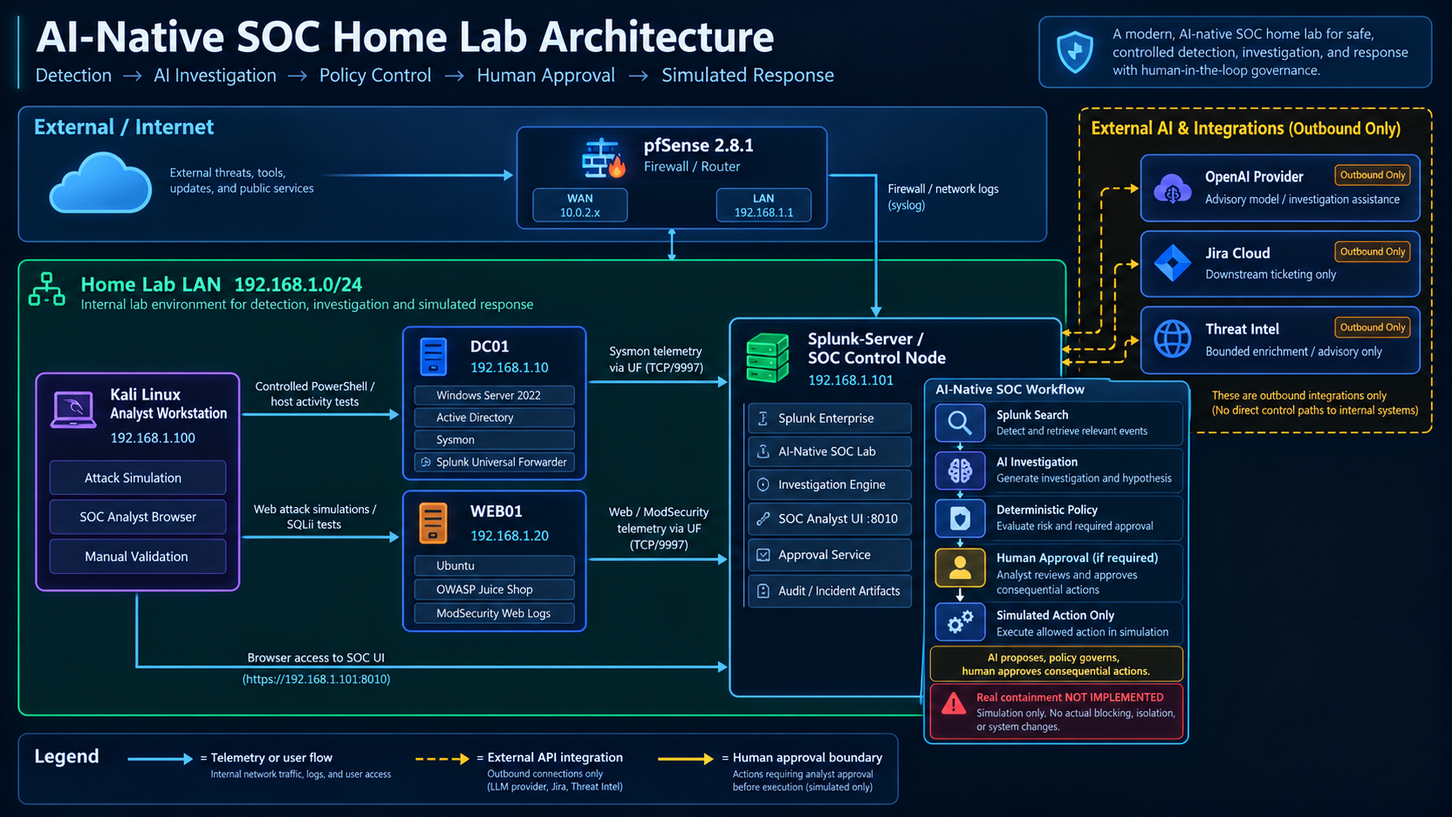
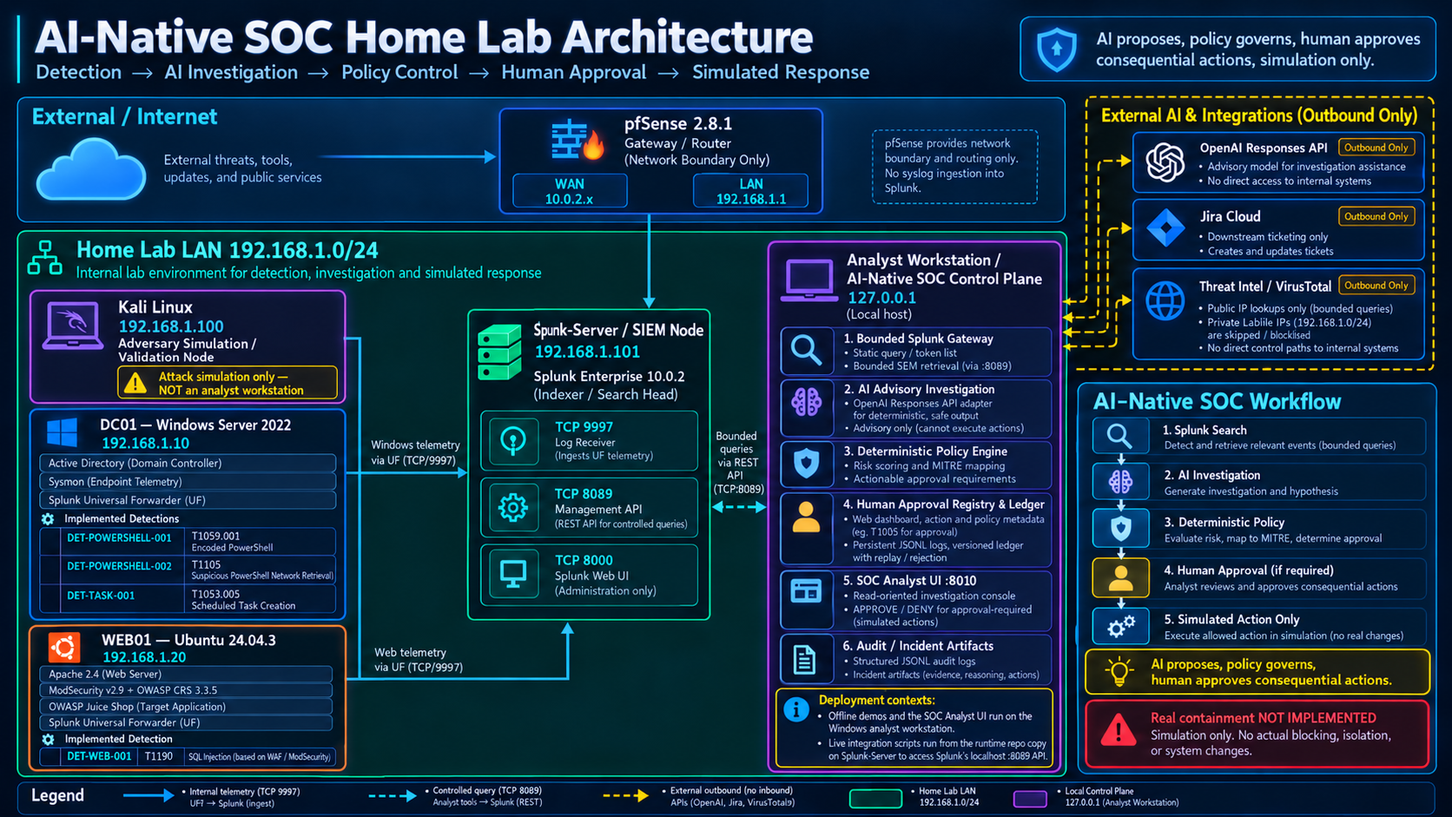
docs: fix README navigation and refresh architecture hero

diff --git a/README.md b/README.md
@@ -22,11 +22,11 @@ The AI agent functions strictly as an advisory investigator—it cannot execute 
 
 * **Quick Start & Demos**: [Getting Started & Demo Paths](#getting-started-demo-paths) • [Offline Reviewer Quick Start](#track-1-offline-portfolio-demo-reviewer-quick-start) • [Verification Summary: Local vs. Live](#verification-summary-local-vs-live-capabilities)
 * **Architecture & Principles**: [Core Runtime Security Principle](#core-runtime-security-principle) • [Multi-Layer Telemetry Architecture](#multi-layer-telemetry-architecture) • [Architecture Diagram](docs/images/architecture/ai-native-soc-lab-architecture.svg)
-* **Detection Engineering**: [Sigma Rules](detections/sigma/) • [Splunk SPL Detections](detections/splunk/) • [Sigma Validation Guide](docs/detection-engineering/sigma-validation.md) • [Telemetry & Detection Status](#6-telemetry-detection-status)
+* **Detection Engineering**: [Sigma Rules](detections/sigma/) • [Splunk SPL Detections](detections/splunk/) • [Sigma Validation Guide](docs/detection-engineering/sigma-validation.md) • [Telemetry & Detection Status](#telemetry-detection-status)
 * **Case Studies**: [Encoded PowerShell Investigation](docs/case-studies/encoded-powershell-end-to-end.md) • [Scheduled Task Persistence](docs/case-studies/scheduled-task-persistence.md) • [WEB01 ModSecurity SQL Injection](docs/case-studies/web01-modsecurity-sqli.md)
-* **Security Evaluations**: [Automated Evaluation Harness](evaluation/harness.py) • [Security Evaluation Artifacts](artifacts/evaluation/security-evaluation.md) • [Evaluation Suite Details](#7-adversarial-security-evaluations-canonical-harness)
+* **Security Evaluations**: [Automated Evaluation Harness](evaluation/harness.py) • [Security Evaluation Artifacts](artifacts/evaluation/security-evaluation.md) • [Evaluation Suite Details](#evaluation-suite-details)
 * **Analyst UI**: [FastAPI Investigation Console Source](ui/app.py) • [UI Templates](ui/templates/)
-* **Implementation & Governance**: [Formal Project Threat Model](docs/threat-model.md) • [Component Status Matrix](#component-status-matrix) • [Current Limitations & Boundaries](#8-current-limitations-boundary-disclosures) • [Implementation Notes](docs/implementation-notes.md)
+* **Implementation & Governance**: [Formal Project Threat Model](docs/threat-model.md) • [Component Status Matrix](#component-status-matrix) • [Current Limitations & Boundaries](#current-limitations-boundaries) • [Implementation Notes](docs/implementation-notes.md)
 
 ---
 
@@ -74,8 +74,13 @@ The AI agent functions strictly as an advisory investigator—it cannot execute 
 
 Modern Security Operations Centers face high alert volumes and context fragmentation. This project demonstrates how an AI agent can assist human analysts during alert triage, telemetry analysis, and IOC enrichment while remaining bound by strict deterministic security policies.
 
-[![AI-Native SOC Lab Architecture](docs/images/architecture/ai-native-soc-lab-architecture.png)](docs/images/architecture/ai-native-soc-lab-architecture.svg)
-*Current Milestone 19 architecture — isolated VirtualBox lab, bounded SIEM retrieval, advisory AI, deterministic policy, human approval for consequential simulated actions, and no real endpoint containment.*
+![AI-Native SOC Home Lab Architecture](docs/images/architecture/ai-native-soc-home-lab-architecture.png)
+*AI-Native SOC home-lab architecture: isolated endpoint and web telemetry feed Splunk and a bounded investigation control plane where AI remains advisory, deterministic policy retains authority, consequential simulated actions require human approval, and real endpoint containment is not implemented.*
+
+**Detailed technical architecture:**<br>
+[Open SVG](docs/images/architecture/ai-native-soc-lab-architecture.svg) · [View PNG](docs/images/architecture/ai-native-soc-lab-architecture.png) · [Mermaid source](docs/images/architecture/ai-native-soc-lab-architecture.mmd)
+
+*The detailed diagram documents trust boundaries, bounded SIEM retrieval, advisory AI, deterministic policy authority, conditional human approval, external integrations, audit logging, and the simulated-response boundary.*
 
 ### Core Runtime Security Principle
 
@@ -114,11 +119,12 @@ The lab demonstrates defense-in-depth across multiple enterprise telemetry layer
 * **Web Application Telemetry**: Linux (`WEB01` Ubuntu 24.04.3) / Apache 2.4 reverse proxy / OWASP ModSecurity Core Rule Set (OWASP CRS 3.3.5) / OWASP Juice Shop running as a Node.js application on port 3000.
 * **SIEM & Ingestion**: Splunk Enterprise indexer / Splunk Universal Forwarder / Bounded retrieval interfaces (static SPL; caller cannot execute arbitrary SPL).
 * **Threat Intelligence**: Bounded VirusTotal REST API v3 IP adapter (live tested; public IPv4 eligible only; private/non-global IPs gated; controlled public-source enrichment live tested in Milestone 13F-3).
-* **Agent Security & Policy**: Deterministic policy engine, least-privilege tool allowlisting, prompt-injection isolation, runtime kill switch, human approval gates for consequential actions, immutable incident records.
+* **Agent Security & Policy**: Deterministic policy engine, least-privilege tool allowlisting, prompt-injection isolation, runtime kill switch, human approval gates for consequential actions, structured validated incident records.
 * **Ticketing & SOAR**: Bounded Jira Cloud adapter (downstream reporting only, zero response authority; live tested for DC01 via `KAN-7`, live tested for WEB01 via `KAN-8`, and live verified with hardened ADF formatting via `KAN-9`).
 
 ---
 
+<a id="getting-started-demo-paths"></a>
 ## Getting Started & Demo Paths
 
 This repository strictly separates the **software control plane** (reproducible anywhere) from the **live physical/virtual home lab** (requires dedicated virtualization infrastructure). A reviewer can clone this repository, run the entire test suite, execute deterministic evaluation harnesses, run synthetic incident pipelines, and launch the SOC Analyst UI locally without needing access to the author's home lab or external paid API accounts.
@@ -242,7 +248,7 @@ The offline portfolio track demonstrates the complete deterministic agentic secu
    * **Port Convention**: Uses port `8010` (`DEFAULT_UI_PORT = 8010` in `ui/app.py`). Port 8010 avoids collision with Splunk Web (which occupies port 8000 in the home lab) and matches the server's default origin allowlist (`http://127.0.0.1:8010` and `http://localhost:8010`).
    * **Access**: Open `http://127.0.0.1:8010` in any web browser.
    * **Artifact Behavior**: Reads directly from `artifacts/incidents/` and `artifacts/audit/agent_audit.jsonl`. If launched before generating synthetic artifacts in Step 7, the UI starts cleanly (HTTP 200) but displays an empty state. Generating artifacts in Step 7 populates rich incident detail views, inert Sysmon XML telemetry, ModSecurity 7-field cards, visual AI advisory vs deterministic policy separation, and audit timelines.
-   * **Credentials & Safety**: None required; read-only presentation layer; zero external outbound network requests.
+   * **Credentials & Safety**: None required; read-oriented investigation and triage presentation layer with interactive APPROVE / DENY controls for approval-required simulated actions; zero direct privileged-tool authority; zero real endpoint containment; no production auth/RBAC/SSO; zero external outbound network requests.
 
 ---
 
@@ -320,7 +326,7 @@ All live demo modes must be executed on the **Splunk-Server** VM where `https://
 #### What a Reviewer Can Verify Locally `[OFFLINE]`
 * **Tool Allowlisting & Schema Enforcement**: Strict parameter typing, argument validation, and static SPL query restriction (`ToolRouter`).
 * **Deterministic Policy Engine**: Exact risk scoring formulas, additive indicator weights, threshold rules, and disposition assignment (`RiskPolicyEngine`).
-* **Human Approval & Replay Protection**: 600s TTL expiry, exact action hash matching, single-use token consumption, and append-only ledger (`approval_consumption.jsonl`) with flush+fsync replay prevention.
+* **Human Approval & Replay Protection**: Exact incident/action/policy binding, 600s TTL expiry, persistent JSONL consumption ledger (`artifacts/approvals/approval_consumption.jsonl`), single-use token consumption, and replay rejection.
 * **Simulation Safety Boundary**: Proof that containment is strictly recorded as `SIMULATED` vs `NOT_EXECUTED`; zero real subprocess or network mutation code exists.
 * **Audit Logging & Governance**: Append-only sequential JSONL writing, strict field validation, and deterministic timeline reconstruction.
 * **Adversarial & Injection Defenses**: 21 canonical security evaluation scenarios, CAT-1 through CAT-8 injection datasets, ADF codeBlock containment, and canary secrecy tests.
@@ -340,7 +346,7 @@ All live demo modes must be executed on the **Splunk-Server** VM where `https://
 | :--- | :--- | :--- |
 | **Tool Allowlisting & Permissions** | Complete schema enforcement, unallowlisted tool rejection, argument validation, and static SPL query restriction (`ToolRouter`). | Ingestion of telemetry from physical forwarders into Splunk Enterprise. |
 | **Deterministic Policy Engine** | Exact risk scoring mathematical formulas, additive weight calculation, threshold rules, and disposition assignment (`RiskPolicyEngine`). | Live environmental baseline tuning against ambient network traffic. |
-| **Human Approval & Ledger** | 600s TTL expiry, exact action SHA-256 hash matching, single-use token consumption, and append-only ledger fsync replay protection. | Real operator interactive workflow during an active live attack campaign. |
+| **Human Approval & Ledger** | Exact incident/action/policy binding, 600s TTL, persistent JSONL consumption ledger, single-use token consumption, and replay rejection. | Real operator interactive workflow during an active live attack campaign. |
 | **Simulation Safety Boundary** | Proof that containment is strictly recorded as `SIMULATED` vs `NOT_EXECUTED`; zero real subprocess or network mutation code exists. | Confirmed absence of network disruption across physical lab switches/hosts. |
 | **Audit Logging & Governance** | Append-only sequential JSONL writing, strict field validation, and deterministic timeline reconstruction. | Distributed multi-host audit aggregation. |
 | **Adversarial & Injection Defenses** | 21 canonical security evaluation scenarios, CAT-1 through CAT-8 injection datasets, ADF codeBlock containment, and canary secrecy tests. | Empirical adversarial red-teaming against live, unconstrained third-party LLMs. |
@@ -491,10 +497,12 @@ To maintain strict truthfulness across technical interviews and documentation, s
 | **Tool-Authorization Abuse Guardrails (14A)** | Adversarial Testing / Security Controls | **IMPLEMENTED + TESTED OFFLINE** | 23 adversarial tests (commit `d913f84`); unallowlisted tools, arbitrary SPL, forbidden arguments, provider overrides fail closed before execution; RuntimeGuard & kill-switch denial verified. |
 | **Untrusted Content & Prompt-Injection Boundary (14B)** | Adversarial Testing / Security Controls | **IMPLEMENTED + TESTED OFFLINE** | 15 adversarial tests (commit `807ad85`); telemetry, ModSecurity evidence, and TI data remain inert evidence; cannot alter tool permissions, forge approval, or leak canary secrets; ADF codeBlock containment verified. |
 | **RuntimeGuard & Execution-Budget Enforcement (14C)** | Adversarial Testing / Security Controls | **IMPLEMENTED + TESTED OFFLINE** | 14 adversarial tests (commit `5b3b0f4`); cumulative tool budget exhaustion, irreversible kill-switch latching, halt-state persistence, separate-run isolation, downstream execution blocking across TI, simulation, and ticketing verified. |
-| **SOC Analyst UI (Milestone 15)** | Presentation / Observability | **IMPLEMENTED + TESTED OFFLINE / MANUALLY BROWSER VALIDATED** | Read-only FastAPI console (`ui/app.py`); strict regex incident ID validation; bounded telemetry display; AI advisory vs deterministic policy separation; read-only sequential JSONL audit reader with timeline output bounded to 200 events; verified across 5 test suites; zero tool/containment authority. |
+| **SOC Analyst UI (Milestones 15 & 16)** | Presentation / Observability | **IMPLEMENTED + TESTED OFFLINE / MANUALLY BROWSER VALIDATED** | Read-oriented FastAPI investigation/triage console (`ui/app.py`); incident list and detail views; bounded telemetry display; AI advisory vs deterministic policy visualization; sequential JSONL audit reader with timeline output bounded to 200 events; interactive APPROVE / DENY controls for approval-required simulated actions; zero direct privileged-tool authority; zero real endpoint containment; no production auth/RBAC/SSO. |
 | **Post-M15 Controlled Live Validation** | End-to-End Live Validation | **LIVE LAB VALIDATED** | Controlled live exercise (2026-10-08); canonical incident `INC-LIVE-DC01-20261008T191323685TUTC`; real DC01 Sysmon $\rightarrow$ Splunk UF $\rightarrow$ Splunk Enterprise $\rightarrow$ bounded `DET-POWERSHELL-002` $\rightarrow$ live OpenAI `gpt-5.6-sol` $\rightarrow$ deterministic policy $\rightarrow$ persistence $\rightarrow$ Kali browser UI; zero real containment. |
-| **Human Approval Gate & Ledger (Milestone 16)** | Security Controls / HITL | **IMPLEMENTED + TESTED OFFLINE / MANUALLY BROWSER VALIDATED** | Deterministic approval binding, 600s TTL, persistent append-only consumption ledger (`artifacts/approvals/approval_consumption.jsonl` with flush+fsync), single-use token consumption, browser UI approve/deny routes; zero real containment. |
-| **Scheduled Task Telemetry & Investigation (DET-TASK-001 / Milestone 18)** | End-to-End Live Validation | **LIVE LAB VALIDATED** | Controlled harmless task `SOCLab-Task-Validation-3` on DC01 $\rightarrow$ Sysmon Event ID 1 $\rightarrow$ Splunk $\rightarrow$ live OpenAI advisory investigation `gpt-5.6-sol` $\rightarrow$ deterministic policy 65 HIGH / HUMAN_REVIEW $\rightarrow$ live Jira ticket `KAN-12`; zero real containment. |
+| **Human Approval Gate & Ledger (Milestone 16)** | Security Controls / HITL | **IMPLEMENTED + TESTED OFFLINE / MANUALLY BROWSER VALIDATED** | Exact incident/action/policy binding, 600s TTL, persistent JSONL consumption ledger (`artifacts/approvals/approval_consumption.jsonl` with flush+fsync write semantics), single-use token consumption, browser UI approve/deny routes; zero real containment. |
+| **Scheduled Task Telemetry & Investigation (DET-TASK-001 / Milestone 18)** | End-to-End Live Validation | **LIVE LAB VALIDATED** | Controlled harmless task `SOCLab-Task-Validation-3` on DC01 $\rightarrow$ Sysmon Event ID 1 $\rightarrow$ real Splunk retrieval $\rightarrow$ deterministic policy 65 HIGH / HUMAN_REVIEW; validated across two distinct live pipelines: M18B-5 (real Splunk + live OpenAI `gpt-5.6-sol`, no Jira) and M18B-6 (real Splunk + deterministic FakeModel + real Jira Cloud ticket `KAN-12`, no live OpenAI); zero real containment. |
+| **Formal Threat Model (Milestone 21)** | Security Architecture & Governance | **IMPLEMENTED / PUBLISHED** | Comprehensive threat model in `docs/threat-model.md` documenting trust boundaries, untrusted inputs, advisory AI vs deterministic policy authority, external-provider boundaries, approval gate, and residual risks. |
+| **Portfolio Hardening & Visual Integration (Milestones 19 & 23 Core)** | Documentation & Architecture | **SUBSTANTIALLY DELIVERED** | Refreshed canonical Mermaid/SVG/PNG architecture, dual-track Quick Start, 3 formal incident case studies, evidence screenshots (`docs/images/evidence/`), and 21/21 security evaluation artifacts. |
 | **Suricata Network IDS Telemetry** | Network Detection | **DEFERRED** | Suricata remains deferred after earlier pfSense package-manager/integration problems. It is not currently installed/operational in the lab and is not required for the current WEB01 ModSecurity path. |
 | **Real Endpoint Containment** | Containment Safety | **NOT IMPLEMENTED / NOT EXECUTED** | Destructive containment actions explicitly excluded from V1 scope; not executed in any milestone; response actions remain strictly simulated. |
 
@@ -557,7 +565,7 @@ detection / incident input
    ```
    * Queries live Splunk for DC01 Sysmon Event ID 1 telemetry matching `DET-TASK-001` (`T1053.005`).
    * Advisory model analysis evaluates scheduled-task creation; deterministic policy scores `65 / 100`, `HIGH`, `HUMAN_REVIEW`.
-   * Live verified with OpenAI `gpt-5.6-sol` and Jira Cloud ticket `KAN-12`. Zero real containment.
+   * Live verified across two separate pipelines: live Splunk + live OpenAI `gpt-5.6-sol` (M18B-5; no Jira) and live Splunk + deterministic FakeModel + real Jira Cloud ticket `KAN-12` (M18B-6; no live OpenAI). Zero real containment.
 
 5. **Deterministic Synthetic Scheduled Task Mode** (Run anywhere / offline):
    ```bash
@@ -592,6 +600,7 @@ The physical/virtual infrastructure exists outside this repository in an isolate
 
 ---
 
+<a id="telemetry-detection-status"></a>
 ## 6. Telemetry & Detection Status
 
 The lab implements and validates 4 core detections across Windows endpoint and Linux web application telemetry. Standalone Sigma (`.yml`) and Splunk (`.spl`) rule files exist for the three endpoint detections (`DET-POWERSHELL-001`, `DET-POWERSHELL-002`, `DET-TASK-001`); `DET-WEB-001` is implemented operationally via web-tier ModSecurity CRS rules and programmatic Python gateway search logic. All detections are mapped to MITRE ATT&CK and live-tested in the isolated lab environment against controlled, harmless fixtures (no malicious compromise is claimed):
@@ -633,7 +642,7 @@ The lab implements and validates 4 core detections across Windows endpoint and L
 * **Behavior**: Process creation of `schtasks.exe` with `/create` command-line flag representing endpoint persistence mechanisms.
 * **MITRE ATT&CK Mapping**: [T1053.005 - Scheduled Task/Job: Scheduled Task](https://attack.mitre.org/techniques/T1053/005/) (Persistence `TA0003`, Privilege Escalation `TA0004`, Execution `TA0002`).
 * **Telemetry Source**: Windows Server 2022 (`DC01`) / Microsoft Sysmon Process Create (Event ID 1) / Splunk index `main`, sourcetype `XmlWinEventLog:Microsoft-Windows-Sysmon/Operational`.
-* **Validation Status**: **IMPLEMENTED + LIVE LAB VALIDATED** (Controlled harmless task `SOCLab-Task-Validation-3` launching `notepad.exe`; bounded Splunk retrieval; live OpenAI advisory investigation `gpt-5.6-sol`; deterministic policy score 65 HIGH / HUMAN_REVIEW; live Jira Cloud ticket `KAN-12`; manual task deletion after validation).
+* **Validation Status**: **IMPLEMENTED + LIVE LAB VALIDATED** (Controlled harmless task `SOCLab-Task-Validation-3` launching `notepad.exe`; bounded Splunk retrieval; deterministic policy score 65 HIGH / HUMAN_REVIEW; validated across two separate live pipelines: M18B-5 with live OpenAI `gpt-5.6-sol` [no Jira] and M18B-6 with real Jira Cloud ticket `KAN-12` using deterministic FakeModel [no live OpenAI]; manual task deletion after validation).
 * **Detection Rules**:
   * SPL: [`detections/splunk/suspicious_scheduled_task_creation.spl`](detections/splunk/suspicious_scheduled_task_creation.spl)
   * Sigma: [`detections/sigma/suspicious_scheduled_task_creation.yml`](detections/sigma/suspicious_scheduled_task_creation.yml)
@@ -641,6 +650,7 @@ The lab implements and validates 4 core detections across Windows endpoint and L
 
 ---
 
+<a id="evaluation-suite-details"></a>
 ## 7. Adversarial Security Evaluations & Canonical Harness
 
 To ensure defense-in-depth and prevent model regressions, all deterministic security controls are evaluated against an automated canonical evaluation harness (`evaluation/harness.py`). The harness runs **21 canonical scenarios** (7 baseline + 10 WEB01 + 4 Milestone 17B governance/policy-integrity scenarios) offline with zero live network dependencies.
@@ -679,6 +689,7 @@ To ensure defense-in-depth and prevent model regressions, all deterministic secu
 
 ---
 
+<a id="current-limitations-boundaries"></a>
 ## 8. Current Limitations & Boundary Disclosures
 
 * **Private Attacker IP in LabNet**: The controlled WEB01 attacker in the lab environment originates from private LabNet address `192.168.1.100`. Real lab incidents are intentionally not sent to external threat intelligence (`SKIPPED_INELIGIBLE`), preventing private network data leakage. In Milestone 13F-3, the public-source enrichment control path was validated live against VirusTotal using a sanitized synthetic fixture (`8.8.8.8`); this fixture was used purely for testing the deterministic pipeline and does not represent actual attacker traffic.
@@ -703,7 +714,7 @@ To ensure defense-in-depth and prevent model regressions, all deterministic secu
 
 * **Milestone 15 — SOC Analyst UI / Investigation Console**: **COMPLETE (IMPLEMENTED + TESTED OFFLINE / MANUALLY BROWSER VALIDATED)**
   Create an analyst-facing interface over the existing deterministic backend.
-  *Initial UI scope remains strictly read-only and observational; zero response action authority; containment is NOT IMPLEMENTED.*
+  *Initial Milestone 15 UI scope began as read-only and observational (with interactive approval controls added subsequently in Milestone 16); zero direct privileged-tool authority; containment is NOT IMPLEMENTED.*
   * **Post-M15 Controlled Live Validation**: **LIVE LAB VALIDATED** (see Section 12 in `docs/implementation-notes.md`).
     - Scope: real DC01 process telemetry, real Sysmon ingestion, real Splunk retrieval, live OpenAI investigation, deterministic policy evaluation, incident/audit persistence, UI rendering.
     - Explicit exclusions: real containment, live endpoint isolation, Jira write, VirusTotal enrichment, live human-approval execution path.
@@ -720,7 +731,7 @@ To ensure defense-in-depth and prevent model regressions, all deterministic secu
   ```
   Browser UI
       ↓
-  Bounded read-only API / presentation layer
+  Read-oriented API / presentation layer (with bounded approval controls)
       ↓
   Existing incident / audit data and application services
       ↓
@@ -731,28 +742,28 @@ To ensure defense-in-depth and prevent model regressions, all deterministic secu
   The backend security boundaries (schemas, ToolRouter, RuntimeGuard, policy engine, audit logging) are now mature, validated, and hardened against prompt injection and tool abuse. Exposing these boundaries early through a read-only console significantly improves demonstration capability (recruiter/interviewer demos), triage visibility, and debugging, establishing an intuitive inspection baseline before integrating interactive approval controls (Milestone 16), additional detections (Milestone 18), Suricata (Milestone 19), and runtime metrics (Milestone 20). Approval and response action controls remain strictly deferred until Milestone 16.
 
 * **Milestone 16 — Human Approval & Consequential Action Boundary**: **COMPLETE (IMPLEMENTED + TESTED OFFLINE / MANUALLY BROWSER VALIDATED)**
-  Harden approval binding, freshness (600s TTL), single-use consumption, persistent append-only consumption ledger (`artifacts/approvals/approval_consumption.jsonl` with flush+fsync), and auditability. Consequential response remains simulated or explicitly human-approved. Integrated controlled Analyst UI Approve/Deny routes (`POST /api/incidents/{incident_id}/approval/approve|deny`) with server-side validation and lab-local origin/CSRF protection. Manually browser validated from Kali (`INC-DEMO-UI-001`, `INC-DEMO-UI-002`, `INC-DEMO-CRIT-20261013-001`). Real endpoint containment remains **NOT IMPLEMENTED** (simulated only).
+  Harden exact incident/action/policy binding, freshness (600s TTL), single-use consumption, persistent JSONL consumption ledger (`artifacts/approvals/approval_consumption.jsonl` with flush+fsync write semantics), replay rejection, and auditability. Consequential response remains simulated or explicitly human-approved. Integrated controlled Analyst UI Approve/Deny routes (`POST /api/incidents/{incident_id}/approval/approve|deny`) with server-side validation and lab-local origin/CSRF protection. Manually browser validated from Kali (`INC-DEMO-UI-001`, `INC-DEMO-UI-002`, `INC-DEMO-CRIT-20261013-001`). Real endpoint containment remains **NOT IMPLEMENTED** (simulated only).
 
 * **Milestone 17 — Security Evaluation Framework Expansion**: **COMPLETE (IMPLEMENTED + TESTED OFFLINE)**
   Expanded the automated canonical security evaluation harness from 17 to 21 deterministic scenarios (**21/21 PASS, 100.0% pass rate**). Added 4 governance and policy-integrity scenarios actively challenging violation counters: model downgrade rejection (`POLICY_OVERRIDE_PREVENTED`), hallucinated MITRE rejection (`DETERMINISTIC_MITRE_PRESERVED`), approval replay rejection (`APPROVAL_REPLAY_BLOCKED`), and fail-closed incomplete evidence handling (`INCOMPLETE_EVIDENCE_FAILED_CLOSED`).
 
 * **Milestone 18 — Additional Detection Coverage**: **COMPLETE (IMPLEMENTED + LIVE LAB VALIDATED)**
-  Expanded endpoint detection coverage with `DET-TASK-001` (Suspicious Scheduled Task Creation — `T1053.005`). Delivered complete Sigma rule, SPL detection, bounded query helper, and deterministic policy integration (+25 base, +10 MITRE). Live lab validated end-to-end on DC01 Sysmon Event ID 1 telemetry: bounded Splunk search, live OpenAI advisory investigation (`gpt-5.6-sol`), deterministic risk evaluation (65/100 HIGH), in-memory audit accounting, and live Jira Cloud ticket creation (`KAN-12`). Additional detections beyond the four implemented detections are optional/deferred for now.
+  Expanded endpoint detection coverage with `DET-TASK-001` (Suspicious Scheduled Task Creation — `T1053.005`). Delivered complete Sigma rule, SPL detection, bounded query helper, and deterministic policy integration (+25 base, +10 MITRE). Live lab validated end-to-end on DC01 Sysmon Event ID 1 telemetry across two distinct verified pipelines: M18B-5 exercising bounded Splunk search + live OpenAI advisory investigation (`gpt-5.6-sol`, no Jira), and M18B-6 exercising bounded Splunk search + deterministic FakeModel + real Jira Cloud ticket creation (`KAN-12`, no live OpenAI). Additional detections beyond the four implemented detections are optional/deferred for now.
 
-* **Milestone 19 — Portfolio Hardening & Demonstration Readiness**: **IN PROGRESS**
-  Perform portfolio-readiness audits, documentation synchronization, repeatable demo hardening, and interview readiness. Verify that all claims, architecture disclosures, and evaluation evidence are transparent and reproducible. Broader Suricata/pfSense network IDS telemetry remains **DEFERRED**. Single-agent architecture remains intentional; multi-agent architecture is **NOT PLANNED**. Real endpoint containment remains outside V1 scope (**NOT IMPLEMENTED / SIMULATED ONLY**).
+* **Milestone 19 — Portfolio Hardening & Demonstration Readiness**: **SUBSTANTIALLY COMPLETE / ACTIVE**
+  Portfolio-readiness audits, documentation synchronization, repeatable demo hardening, and interview readiness are substantially complete through README synchronization, dual-track Quick Start, GitHub landing polish, formal threat model integration, end-to-end incident case studies, evidence screenshots, refreshed reproducible architecture diagrams, and portfolio visual integration. Broader Suricata/pfSense network IDS telemetry remains **DEFERRED**. Single-agent architecture remains intentional; multi-agent architecture is **NOT PLANNED**. Real endpoint containment remains outside V1 scope (**NOT IMPLEMENTED / SIMULATED ONLY**).
 
 * **Milestone 20 — Runtime Monitoring & Operational Safety**: **PLANNED**
   Expose per-run tool counts, blocked-tool counts, provider failures, kill-switch state, approval state, audit correlation, and bounded runtime-health/security metrics.
 
-* **Milestone 21 — Threat Model & Security Architecture Documentation**: **PLANNED**
-  Formalize trust boundaries, untrusted inputs, model authority, deterministic control plane, secrets handling, external-provider boundaries, approval boundary, abuse cases, residual risks, and production limitations.
+* **Milestone 21 — Threat Model & Security Architecture Documentation**: **SUBSTANTIALLY IMPLEMENTED / COMPLETED CORE ARTIFACTS**
+  Formal threat model and security architecture documentation completed and published in [`docs/threat-model.md`](docs/threat-model.md), documenting trust boundaries, untrusted inputs, advisory model authority, deterministic control plane, secrets handling, external-provider boundaries, human approval gate, abuse cases, residual risks, and production limitations. Enterprise compliance mappings remain future work.
 
 * **Milestone 22 — Recruiter / Interview Demo**: **PLANNED**
   Create one polished end-to-end SOC incident demonstration and one adversarial-control demonstration proving that malicious/untrusted content cannot bypass ToolRouter, RuntimeGuard, deterministic policy, or human approval.
 
-* **Milestone 23 — Portfolio & GitHub Finalization**: **PLANNED**
-  Finalize architecture diagrams, README/setup, implementation-status matrix, incident case studies, screenshots, evaluation results, live-tested vs simulated matrix, limitations, future improvements, and public roadmap.
+* **Milestone 23 — Portfolio & GitHub Finalization**: **IN PROGRESS / CORE ASSETS DELIVERED**
+  Core portfolio assets are delivered and verified in the repository: refreshed architecture diagrams ([SVG](docs/images/architecture/ai-native-soc-lab-architecture.svg) / [PNG](docs/images/architecture/ai-native-soc-lab-architecture.png) / [MMD](docs/images/architecture/ai-native-soc-lab-architecture.mmd)), comprehensive README, component status matrix, incident case studies, evidence screenshots (`docs/images/evidence/`), evaluation results (21/21 PASS), limitations, and boundary disclosures. Final public portfolio showcase packaging and recorded demonstration walkthroughs remain planned.
 
 ---
 
@@ -821,3 +832,7 @@ To ensure defense-in-depth and prevent model regressions, all deterministic secu
   - [x] **18B-4**: Live integrated investigation validation: `--mode live-scheduled-task`, bounded Splunk search, deterministic `FakeModel`, audit accounting, zero containment mutation.
   - [x] **18B-5**: Live OpenAI advisory validation for `DET-TASK-001` using model `gpt-5.6-sol` against live DC01 telemetry in Splunk.
   - [x] **18B-6**: Live Jira Cloud incident creation for `DET-TASK-001`, creating real ticket `KAN-12` (downstream reporting sink, zero response authority; preceded by connectivity smoke test `KAN-11`).
+- [x] **Milestone 19**: Portfolio Hardening & Demonstration Readiness (**SUBSTANTIALLY DELIVERED / ACTIVE**):
+  - [x] **19A**: Documentation and README synchronization across offline portfolio demo and full live home-lab validation tracks.
+  - [x] **19B**: End-to-end incident case study documentation ([PowerShell](docs/case-studies/encoded-powershell-end-to-end.md), [Scheduled Task](docs/case-studies/scheduled-task-persistence.md), [ModSecurity SQLi](docs/case-studies/web01-modsecurity-sqli.md)).
+  - [x] **19C**: Portfolio evidence visuals integration (`docs/images/evidence/`), refreshed canonical architecture diagrams ([SVG](docs/images/architecture/ai-native-soc-lab-architecture.svg) / [PNG](docs/images/architecture/ai-native-soc-lab-architecture.png) / [MMD](docs/images/architecture/ai-native-soc-lab-architecture.mmd)), and UX navigation cleanup.
